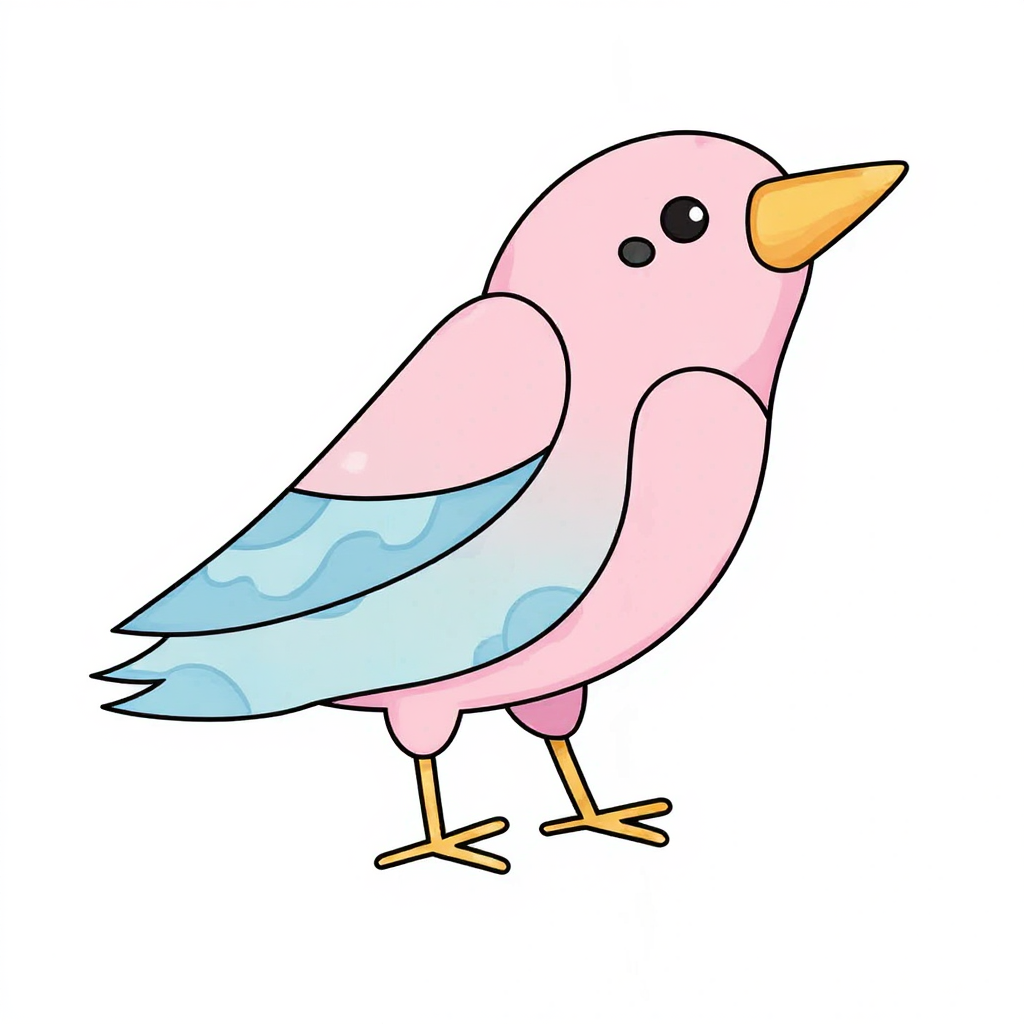
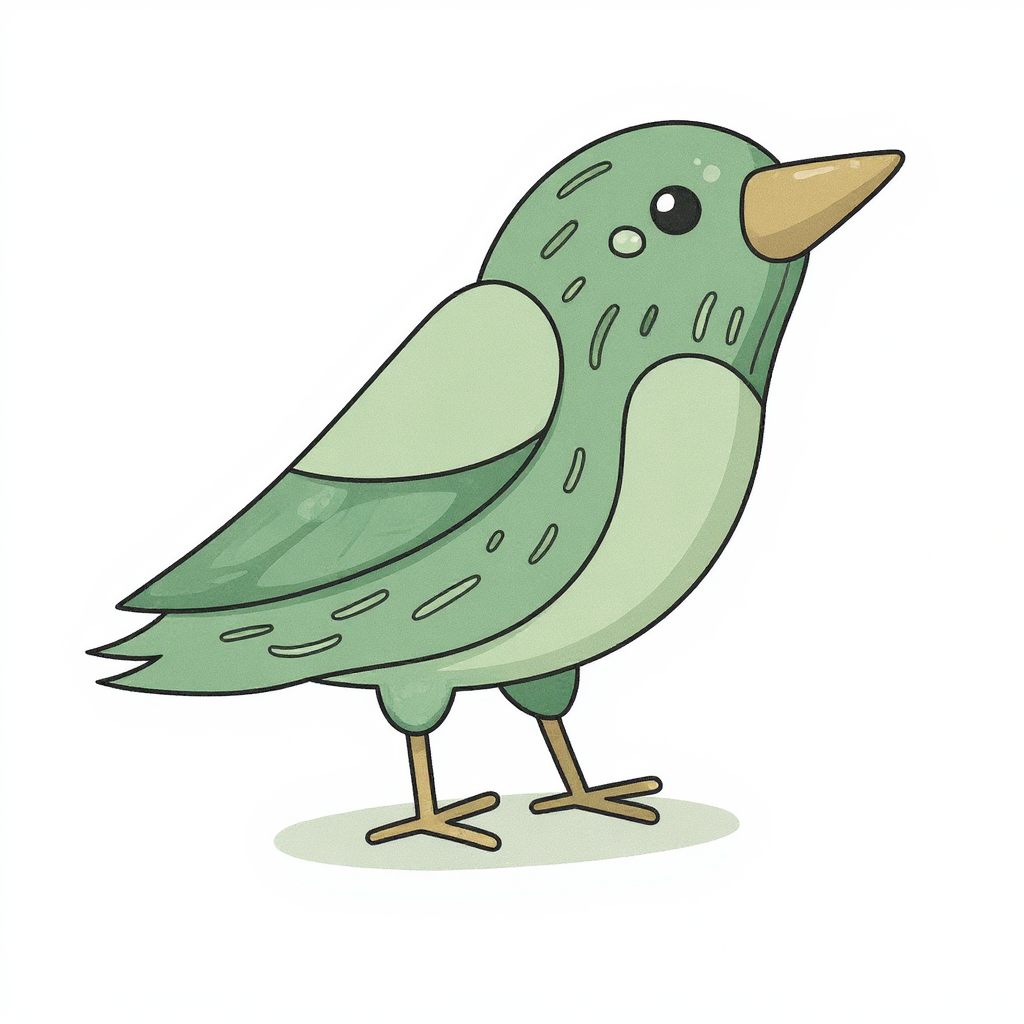
Fix: commit updated bird_편안함.png and add exampleImg fallback to guide.html
- Update bird_편안함.png to correct calm emotion sample image
- Add exampleImg fallback branch to guide.html compare modal
- Remove deprecated 활기.png and bird_활기.png (replaced by 설레임)

Changed region(s): [[0.0938, 0.0938, 0.9062, 0.875]]

diff --git a/guide.html b/guide.html
@@ -60,6 +60,14 @@ function initGuide() {
       emotionImg.palette.map(c =>
         `<div class="compare-palette-dot" style="background:${c}"></div>`
       ).join('');
+  } else if (emotion.exampleImg) {
+    document.getElementById('compare-img-emotion').src = emotion.exampleImg;
+    document.getElementById('compare-img-overlay').style.background = 'none';
+    document.getElementById('compare-palette-emotion').innerHTML =
+      artwork.layers.map((l, i) => {
+        const c = emotion.transform(l.color, i);
+        return `<div class="compare-palette-dot" style="background:${c}" title="${l.name}"></div>`;
+      }).join('');
   } else {
     document.getElementById('compare-img-emotion').src = artwork.imageUrl;
     document.getElementById('compare-img-overlay').style.background = emotion.gradient;
